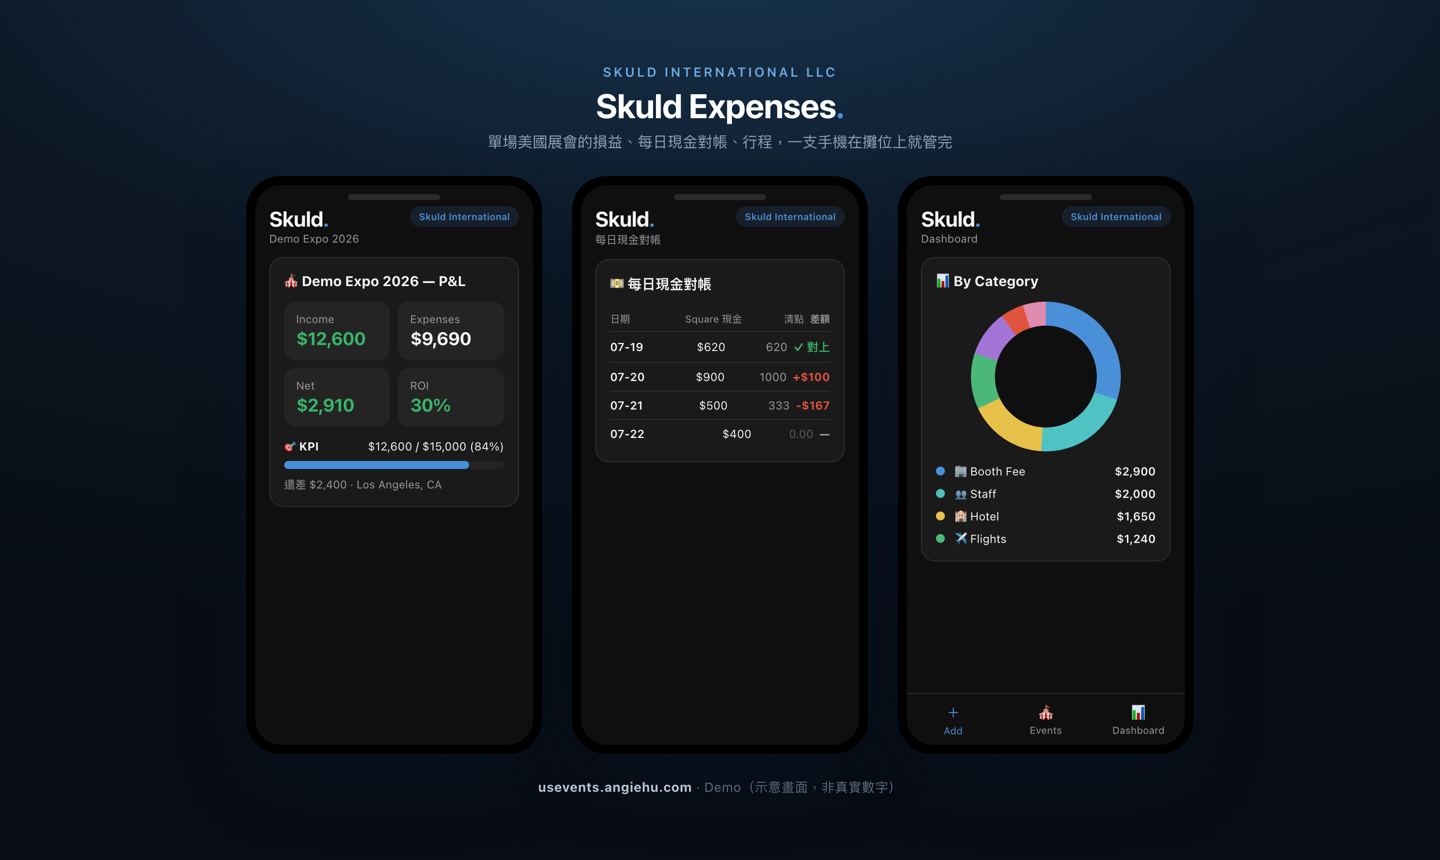
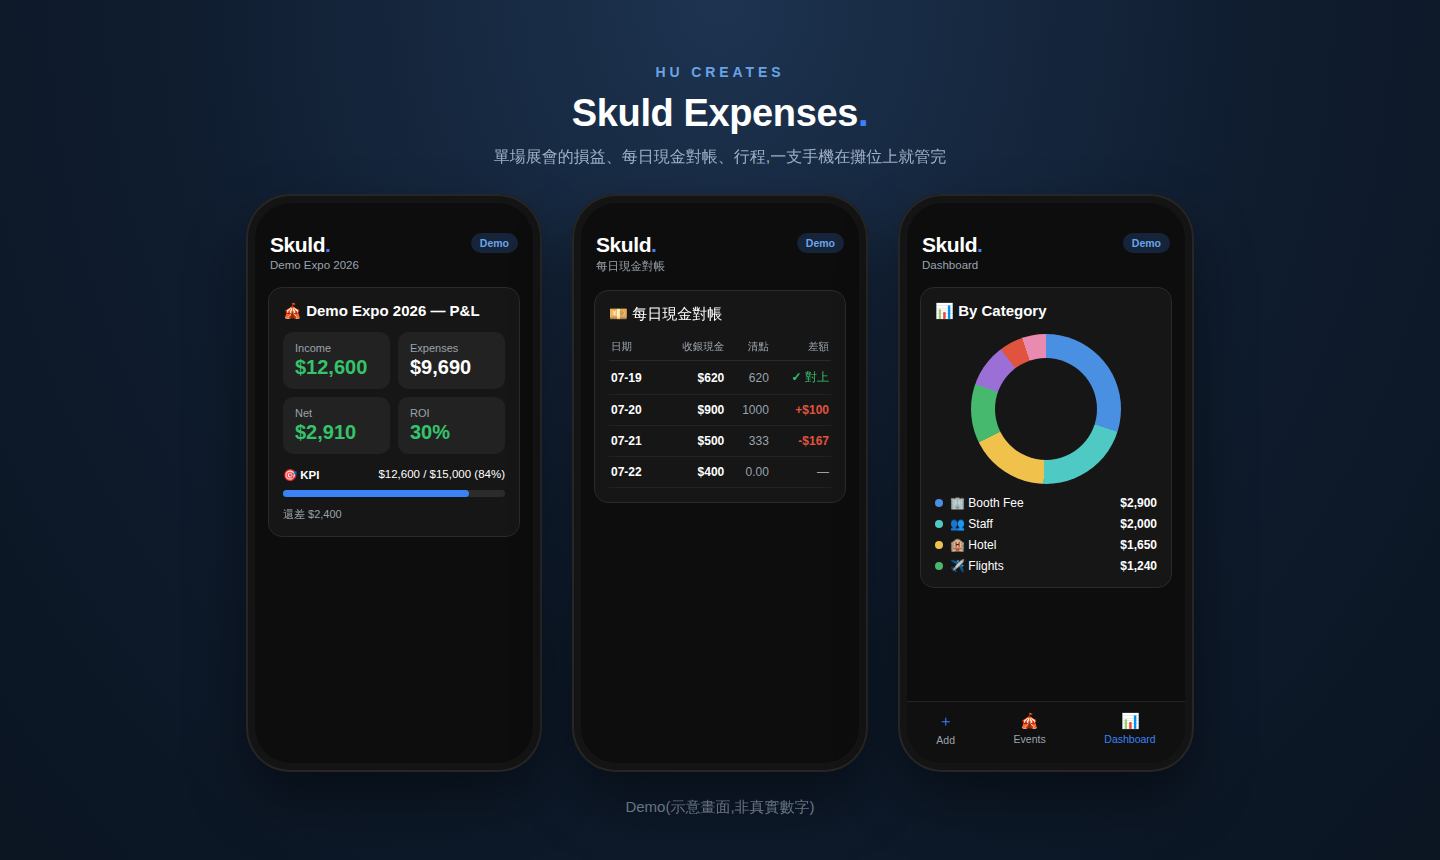
Skuld 示範圖換成不含公司資訊的版本(中英各一張)+ 顧問履歷頁加上首頁大頭照 (#8)
Claude-Session: https://claude.ai/code/session_01D6Ak6pQJYB45nzXt2XLrcL

diff --git a/CLAUDE.md b/CLAUDE.md
@@ -47,6 +47,8 @@ Angie 的個人網站(Astro 靜態站,網域 angiehu.com)。**這份是專案交
   - Angie 給了 SoundOn 上的單集連結 → `about.astro` 的音檔區塊新增 `link`(+`link_label`/`link_label_en`)欄位,顯示成「🎧 在 SoundOn 收聽這集」按鈕(沿用 placeholder 的色票);有 `file` 就同時顯示播放器+來源連結,兩個都沒有才顯示 note。CMS 已加欄位。**沒有把音檔下載下來放自己網站**:雲端 session 連不到 SoundOn,而且錄音版權屬 ICRT,連回原節目最穩;Angie 若要站內直接播,可自己從 SoundOn 下載 mp3 再從後台上傳。
   - Angie 已從後台上傳 ICRT 音檔(48kbps 單聲道、11:34、4.2 MB)。後台存的檔名帶空格與括號,已改名成 `public/uploads/icrt-taiwan-talk-2020.mp3`;瀏覽器實測播放器可載入、中英文都正常,SoundOn 按鈕保留當出處。**之後後台上傳檔案,檔名最好先改成英文、不要有空格。**
   - ⚠ Sveltia 後台存檔會**自動刪掉字串前後的空格**。9/28 Angie 從後台改首頁(換 hero 照為 `AngieIP.png`)後,hero 標語的片段黏在一起(英文變成「shippingAI tools」「turnedIP licensing」)。已改 `HeroV2.astro`:標語片段由程式自動 trim 後以一個空格串接,資料裡有沒有空格都不影響。之後其他「多段拼接」的欄位也要這樣處理,不要依賴資料裡的前後空格。
+  - **Skuld 示範圖換掉**(Angie 決定):照原圖版面重畫(HTML 排版後用 Chromium 截圖,1440×860),拿掉公司名、「美國」、城市、收銀系統品牌、內部網址;上方改成跟名片掃描一樣的 HU CREATES,徽章改「Demo」。新增英文版 `skuld-expense-demo-en.png` 放 `cover_en`。數字沿用原圖的示意數字。**舊圖在 git 歷史裡仍看得到**(不能 force push)。
+  - **顧問履歷頁加大頭照**(Angie:「照片用首頁那張」):`consulting-cv.astro` 登入後的標題區左邊放首頁主視覺照(從 `home.json` hero 的 `heroImage` 讀,首頁換照片這裡會跟著換;本來就是公開照片,所以不用放 KV)。手機版改成照片在上。用本機 wrangler dev + 假資料測過桌機/手機。
 - 2026-09-27:**新工具「傳送門 Link in Bio」**(`hu-link.md`,對應 repo `hu-link`)。團隊內部用的一頁式傳送門+短網址+可追蹤 QR code,後台只有團隊能登入 → 照「內部工具不寫公司機密」規則:`status: internal`、不放網址、不寫串接系統與團隊資訊,只寫問題與大方向功能(每項都對過 repo 已上線的 commit)。`llms.txt` 同步。(模型:Opus 5.5)
 - 2026-09-26(晚):**依 Angie 指示「內部工具不要分享太多公司機密」,收斂所有內部工具的公開內容。** 7 個內部工具頁(Expo、圖庫整理、hu-meet、合約比對、LINE 翻譯 bot、收據掃描、Skuld)改寫成只講問題與大方向功能,拿掉內部系統串接、AI 引擎、公司實體/展會/權限/會計流程、合作夥伴國家、內部網址;Skuld 是 Angie 自己寫的,只刪敏感處、保留她的文字。名片掃描刪掉「公司內部版」段落;社群後台狀態改成「對外版本準備中」。`llms.txt` 與本交接檔同步清理,並在「規則」加上一條。**Skuld 的示範圖(`skuld-expense-demo.png`)裡還有公司名與內部網址,需要 Angie 自己決定要不要換圖。**(模型:Opus 5.5)
 - 2026-09-26:**名片掃描公開付費版上架+五個工具內容更新+修正英文版一個顯示 bug。**

diff --git a/src/content/tools/hucreates-expense.md b/src/content/tools/hucreates-expense.md
@@ -4,6 +4,7 @@ icon: 💰
 tag: AI · 展會損益
 tag_en: "AI · Per-event P&L"
 cover: /uploads/skuld-expense-demo.png
+cover_en: /uploads/skuld-expense-demo-en.png
 desc: 參展一場一場算，攤位上就想知道這場到底賺還賠。手機拍收據 AI 讀金額、收銀營收每天自動進來、收攤點現金當場對帳，單場損益和 ROI 隨時打開就看得到。
 desc_en: "Working trade shows one at a time, you want to know right at the booth whether this show is making or losing money. Snap a receipt and AI reads the amount, register takings flow in daily, count the cash at close to reconcile on the spot — per-event P&L and ROI are always one tap away."
 features:
